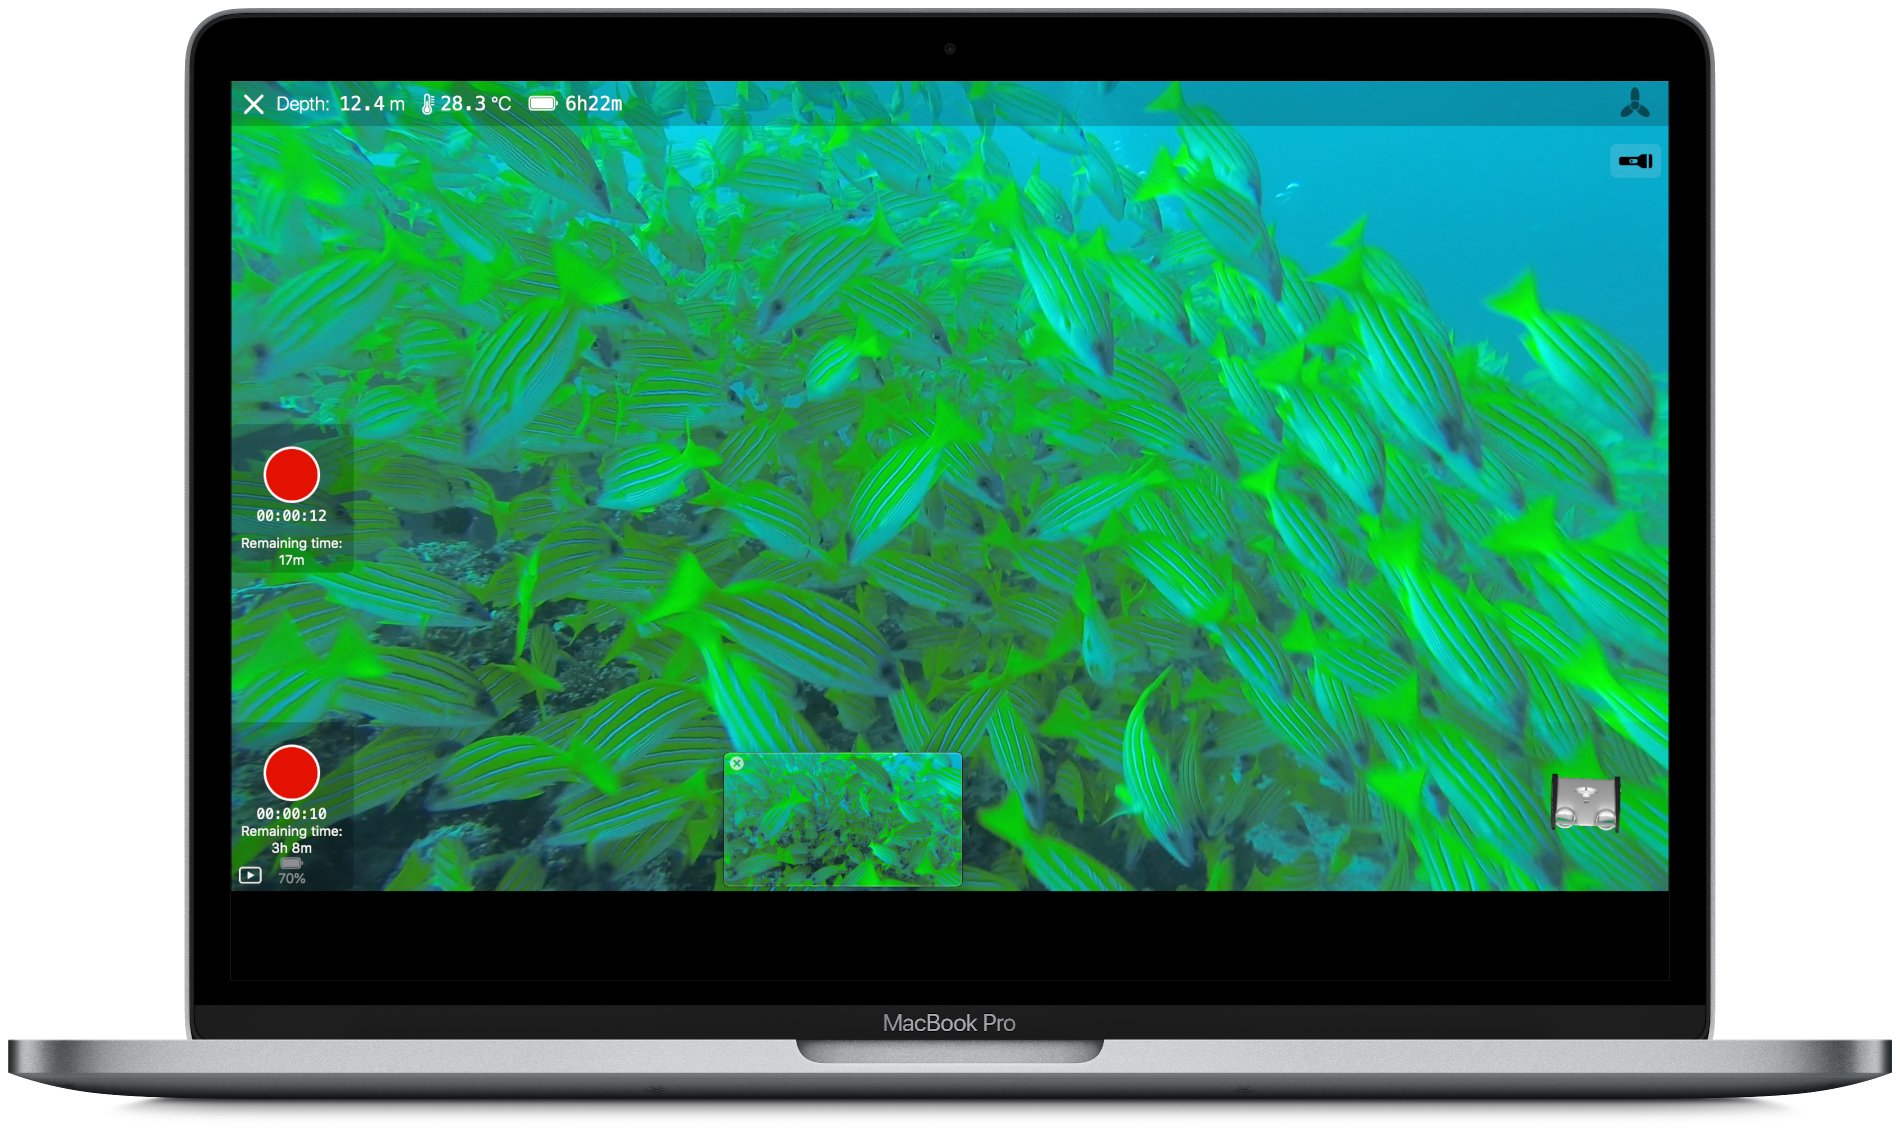
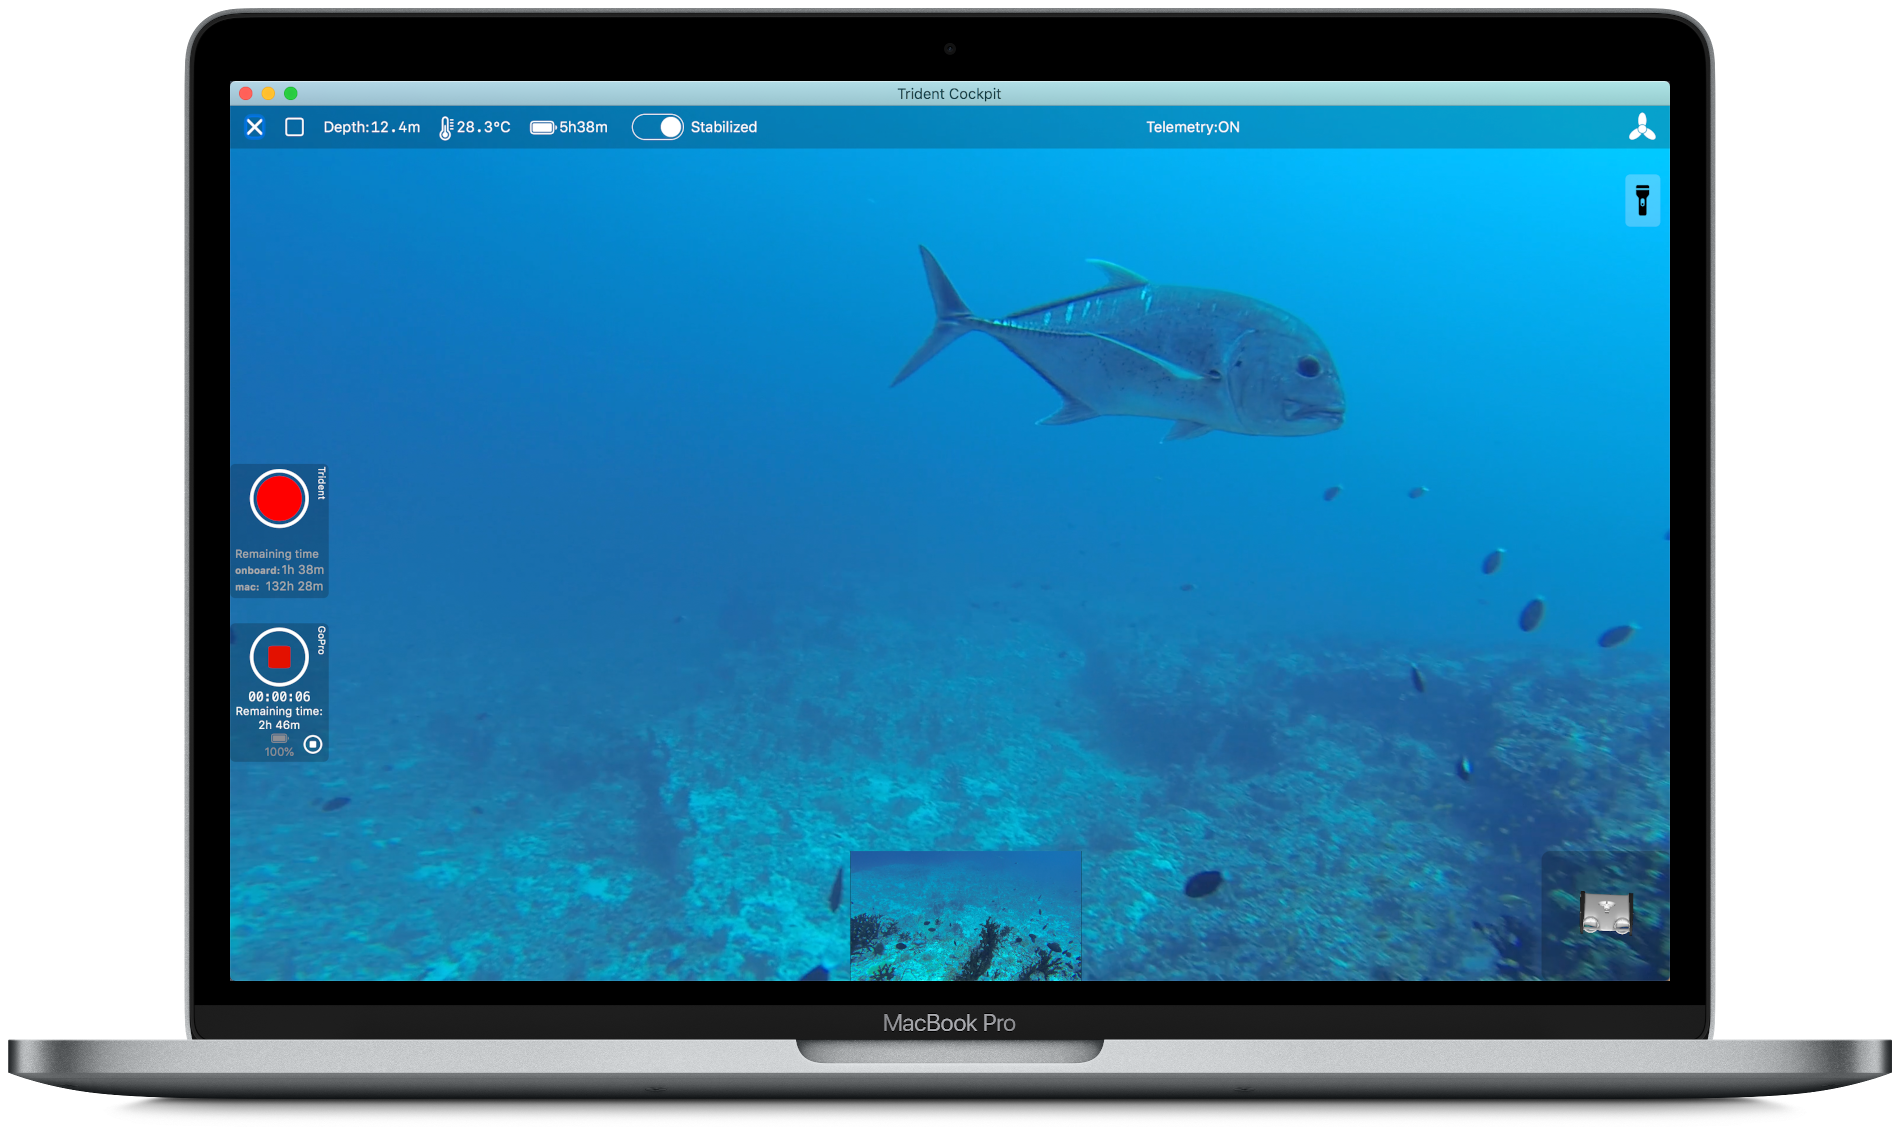
Update Readme & screenshots

diff --git a/macOS.md b/macOS.md
@@ -1,16 +1,10 @@
 
-<h2 align="center">Trident Cockpit is an alternative macOS control app for the <a href="https://www.sofarocean.com/products/trident?aff=30">Sofar Trident Underwater Drone.</a></h2>
+<h2 align="center">Trident Cockpit is an alternative macOS native control app for the <a href="https://www.sofarocean.com/products/trident?aff=30">Sofar Trident Underwater Drone.</a></h2>
 
 <h1 align="center">
 <a href="https://dimaru.github.com.tridentcockpit">iOS version here</a>
 </h1>
 
-<p align="center">
-<img src="https://github.com/DimaRU/TridentCockpit/raw/master/Screenshots/MacBook Pro.png" />
-</p>
-<h3 align="center"> ·
-<a href="https://github.com/DimaRU/TridentCockpit/releases">Releases</a> ·
-</h3>
 
 ---
 
@@ -52,11 +46,6 @@ The money received will go towards:
 * Buy an iPad to speed up iPad version testing.
 
 With Patreon, you can send me a small monthly amount of money, or make a one-time donation by canceling the monthly subscription after the first payment.
-
-## Installation
-
-To install `Trident Cockpit` on macOS, download the release from the [releases page](https://github.com/DimaRU/TridentCockpit/releases).
-These are all signed and notarized to run out of the box on macOS 10.14+.
 
 ## Keyboard Shortcuts
 

diff --git a/index.md b/index.md
@@ -1,6 +1,5 @@
 
-<h2 align="center">Trident Cockpit is an alternative control app for iPhone and iPad for the
-<a href="https://www.sofarocean.com/products/trident?aff=30">Sofar Trident Underwater Drone.</a></h2>
+<h2 align="center">Trident Cockpit is an alternative iOS/iPadOS/macOS control app for the <a href="https://www.sofarocean.com/products/trident?aff=30">Sofar Trident Underwater Drone.</a></h2>
 
 <p align="center">
 <img src="Screenshots/iPhone%2011%20Pro%20Max.png"/>
@@ -92,6 +91,7 @@ This project is unofficial (meaning not supported by or affiliated with Sofar Oc
 <p align="center">
 <img src="Screenshots/iPhone%2011%20Pro%20Max-1.png"/>
 <img src="Screenshots/iPhone%2011%20Pro%20Max-2.png"/>
+<img src="Screenshots/MacBook%20Pro.png"/>
 <img src="Screenshots/11-inch%20iPad%20Pro.png"/>
 <img src="Screenshots/11-inch%20iPad%20Pro-1.png"/>
 </p>
